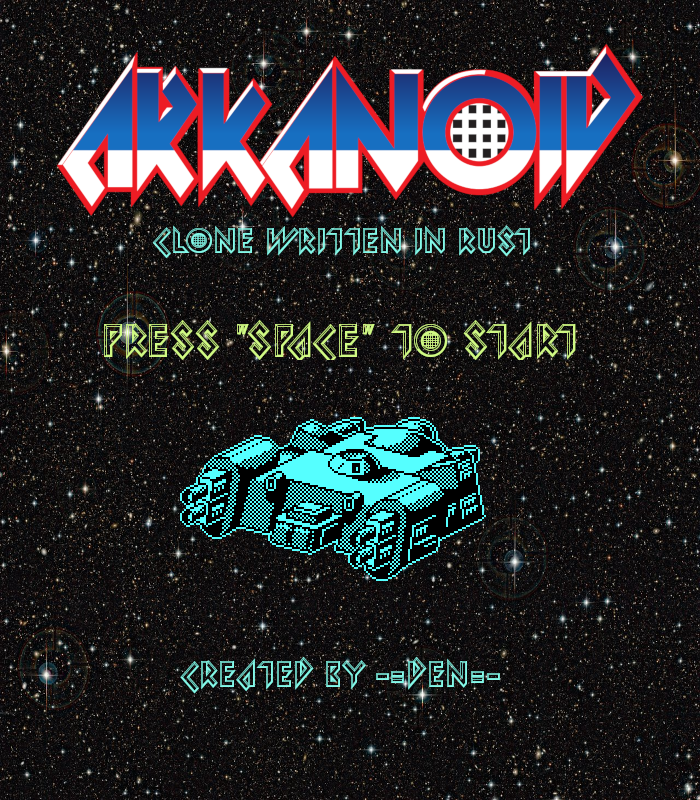
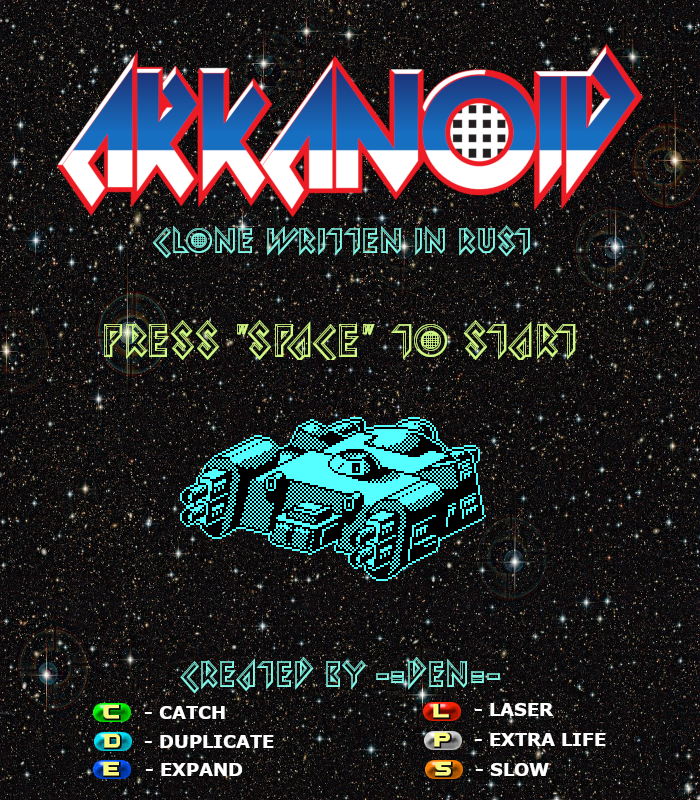
working on enemies

Changed region(s): [[0.12, 0.875, 0.39, 1.0], [0.69, 0.875, 0.87, 0.9688], [0.6, 0.875, 0.66, 1.0]]

diff --git a/src/main.rs b/src/main.rs
@@ -317,6 +317,24 @@ async fn main() {
                     brick.draw();
 
                     if !brick.destroyed {
+                        for enemy in &mut enemies {
+                            if !enemy.destroyed {
+                                if let Some(_i) = enemy.rect.intersect(brick.up_side) {
+                                    enemy.y -= 1.0;
+                                }
+                            }
+                            if !enemy.destroyed {
+                                if let Some(_i) = enemy.rect.intersect(brick.left_side) {
+                                    enemy.x -= 1.0;
+                                }
+                            }
+                            if !enemy.destroyed {
+                                if let Some(_i) = enemy.rect.intersect(brick.right_side) {
+                                    enemy.x += 1.0;
+                                }
+                            }
+                        }
+
                         if let Some(_i) = ball.rect.intersect(brick.left_side) {
                             brick.destroyed = true;
                             ball.horizontal_dir = ball::HorizontalDir::Left;
@@ -382,9 +400,7 @@ async fn main() {
                             else
                             if power.kind == "slow" {
                                 game.score += 5;
-                                if ball.speed > 60.0 {
-                                    ball.speed -= 20.0;
-                                }
+                                ball.speed = INIT_BALL_SPEED;
                             }
 
                             play_sound(resources.bonus, PlaySoundParams {
@@ -502,6 +518,7 @@ async fn main() {
                         if enemy.x > paddle.x && !enemy.destroyed {
                             enemy.x -= 1.0;
                         }
+
                         if let Some(_i) = enemy.rect.intersect(paddle.rect) {
                             enemy.destroyed = true;
                         }
